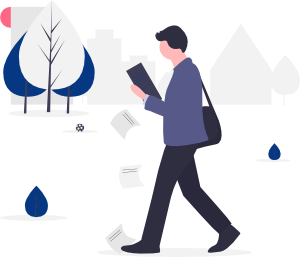
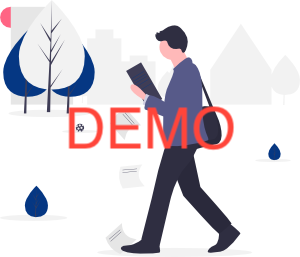
Demo

Changed region(s): [[0.21, 0.4047, 0.78, 0.5914]]

diff --git a/index.html b/index.html
@@ -3,8 +3,7 @@
 <head>
     <meta charset="UTF-8">
     <meta name="viewport" content="width=device-width, initial-scale=1.0">
-    <title>SSP Dashboard | Instituto Irapuato</title>
-    <meta name="robots"  content="noindex" />
+    <title>Vacantes Servicio Social DEMO | Instituto Irapuato</title>
     <link href="./assets/vendor/fontawesome-free/css/all.min.css" rel="stylesheet" type="text/css">
     <link href="https://fonts.googleapis.com/css?family=Nunito:200,200i,300,300i,400,400i,600,600i,700,700i,800,800i,900,900i" rel="stylesheet">
     <link href="./assets/css/sb-admin-2.min.css" rel="stylesheet">
@@ -63,7 +62,7 @@
         <div class="container-fluid">
 
           <!-- Page Heading -->
-          <h1 class="h3 mt-5 ml-4 mb-5 text-gray-800" style="display: inline-block;">Servicio Social Profesional</h1>
+          <h1 class="h3 mt-5 ml-4 mb-5 text-gray-800" style="display: inline-block;">DEMO Servicio Social Profesional</h1>
           <a id="publishVacant" class="mt-3 btn btn-primary btn-icon-split ml-3 mb-4" onclick="openModal(0)" data-toggle="modal" data-target="#exampleModal" style="color: white;">
             <span class="icon text-white-50">
               <i class="fas fa-plus"></i>
@@ -114,7 +113,7 @@
                 <table class="table table-bordered" id="tableMain" cellspacing="0">
                 </table>
               </div>
-              <table class="table table-bordered" id="exportDataTable" cellspacing="0">
+              <table class="table table-bordered" id="exportDataTable" cellspacing="0" style="display: none;">
               </table>
               <a class="mt-3 btn btn-success btn-icon-split" download="vacantes.csv" href="#" onclick="return ExcellentExport.csv(this, 'exportDataTable');">
                 <span class="icon text-white-50">
@@ -139,7 +138,7 @@
       <footer class="sticky-footer bg-white">
         <div class="container my-auto">
           <div class="copyright text-center my-auto">
-            <span>Desarrollado por el departamento de <a href="mailto:chrystianlozano@sistemas.uii.edu.mx">Sistemas</a></span>
+            <span>Desarrollado por <a href="https://github.com/ChrystianLozano">Chrystian Fabian Lozano Ramirez</a></span>
           </div>
         </div>
       </footer>

diff --git a/assets/js/dashboard2.js b/assets/js/dashboard2.js
@@ -8,7 +8,7 @@ window.onload=function(){
 function isSigInDash(){
     firebase.auth().onAuthStateChanged(res => {
       if(res==null){
-          document.getElementById('detailsUser').innerHTML="Usted no ha ingresado";
+          document.getElementById('detailsUser').innerHTML="MODO DEMOSTRACIÓN";
           document.getElementById('detalsImgOff').style.display="none";
           document.getElementById('detalsImgOn').style.display="block";
           document.getElementById('buttonIn').style.display="none";
